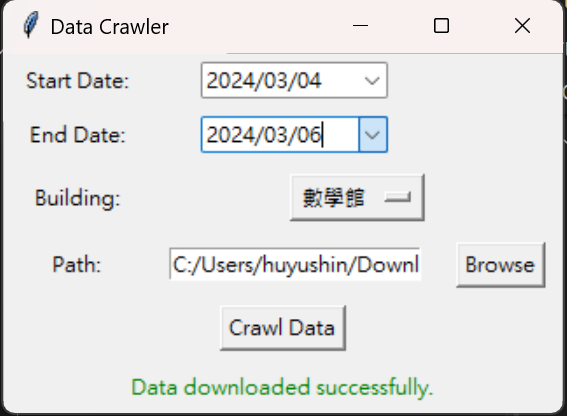
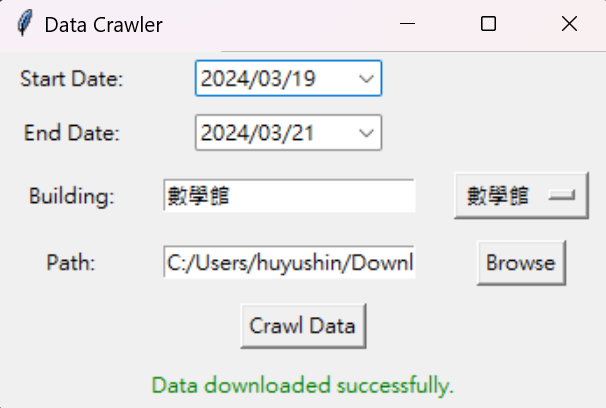
update building selector

diff --git a/crawling_buildings_data.py b/crawling_buildings_data.py
@@ -44,6 +44,11 @@ def crawl_data():
     b_val = building_var.get()
     path_val = path_entry.get()
 
+    # Check if the building is valid
+    if b_val not in buildings:
+        messagebox.showerror("Error", "Invalid building selection.")
+        return
+    
     # Check if the date is valid
     try:
         start_date = datetime.strptime(start_date_val, "%Y/%m/%d")
@@ -100,11 +105,16 @@ def crawl_data():
 window = tk.Tk()
 window.title("Data Crawler")
 
+# Default date is yesterday
+default_date = datetime.now() - timedelta(days=1)
+default_date_str = default_date.strftime("%Y/%m/%d")
+
 # Start date input
 start_date_label = tk.Label(window, text="Start Date:")
 start_date_label.grid(row=0, column=0, padx=10, pady=5)
 start_date_var = tk.StringVar(window)
 start_date_entry = DateEntry(window, textvariable=start_date_var, date_pattern="yyyy/mm/dd")
+start_date_entry.set_date(default_date)  # 设置默认日期为昨天
 start_date_entry.grid(row=0, column=1, padx=10, pady=5)
 
 # End date input
@@ -112,6 +122,7 @@ end_date_label = tk.Label(window, text="End Date:")
 end_date_label.grid(row=1, column=0, padx=10, pady=5)
 end_date_var = tk.StringVar(window)
 end_date_entry = DateEntry(window, textvariable=end_date_var, date_pattern="yyyy/mm/dd")
+end_date_entry.set_date(default_date)  # 设置默认日期为昨天
 end_date_entry.grid(row=1, column=1, padx=10, pady=5)
 
 # Building menu
@@ -119,8 +130,10 @@ building_label = tk.Label(window, text="Building:")
 building_label.grid(row=2, column=0, padx=10, pady=5)
 building_var = tk.StringVar(window)
 building_var.set(buildings[0])
-building_menu = tk.OptionMenu(window, building_var, *buildings)
-building_menu.grid(row=2, column=1, columnspan=2, padx=10, pady=5)
+building_entry = tk.Entry(window, textvariable=building_var) # Entry widget for building input
+building_entry.grid(row=2, column=1, padx=10, pady=5)
+building_menu = tk.OptionMenu(window, building_var, *buildings) # OptionMenu for building selection
+building_menu.grid(row=2, column=2, padx=10, pady=5)
 
 # Path input
 path_label = tk.Label(window, text="Path:")
